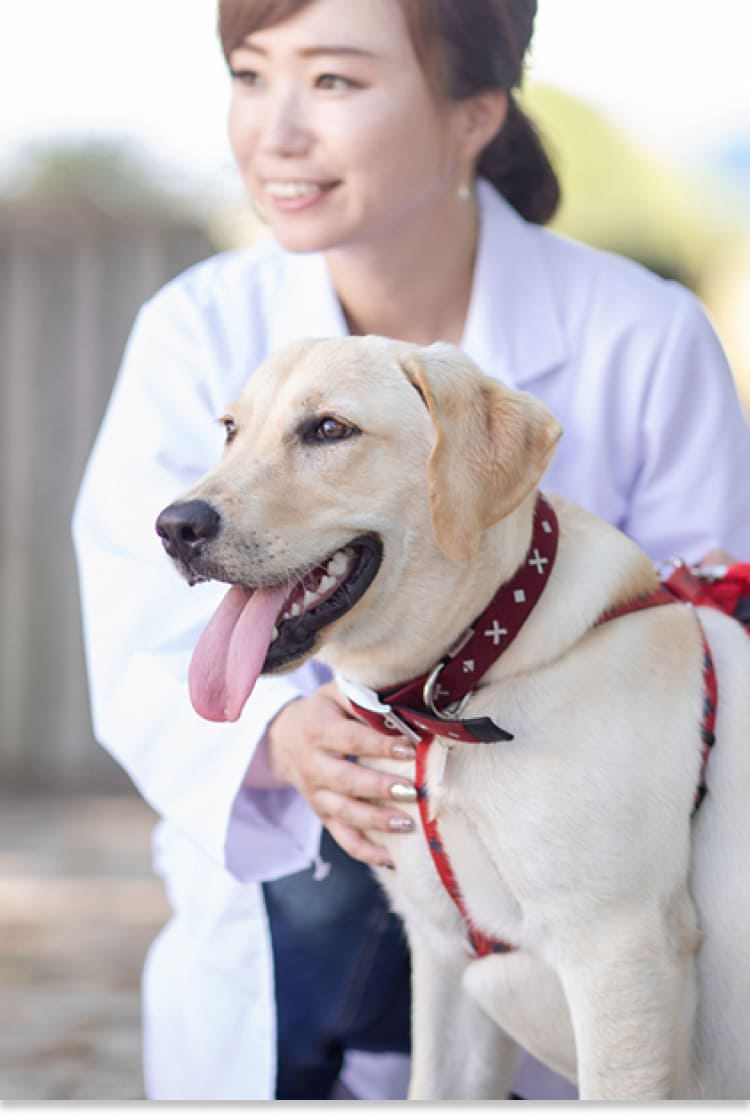
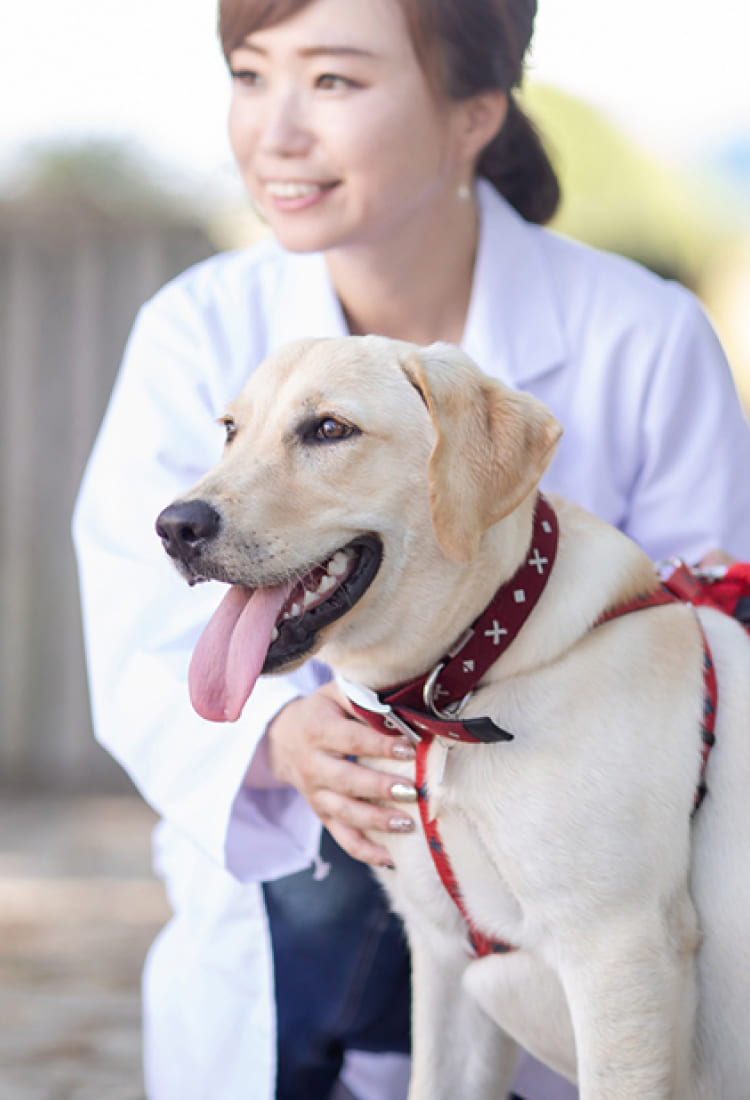
デザイン修正

diff --git a/css/style.css b/css/style.css
@@ -320,7 +320,7 @@ img {
 
 @media (max-width: 767px) {
     .mv-catch h2 {
-        font-size:3rem;
+        font-size: calc(30 / 375 * 100vw);
         line-height: calc(40 / 30);
         font-weight: bold;
         transform: translateY(-0.5rem);
@@ -449,7 +449,7 @@ img {
     margin-inline: auto;
 }
 .features__title h2 {
-    margin-top: -0.2rem;
+    margin-top: -0.8rem;
     display: flex;
     align-items: center;
     justify-content: center;
@@ -462,14 +462,14 @@ img {
     display: flex;
     flex-direction: column;
     row-gap: 5rem;
-    margin-top: 3.8rem;
+    margin-top: 4.4rem;
     
 }
 
 @media (max-width:767px) {
     .features__contents {
-        row-gap: 4.5rem;
-        margin-top: 3.3rem;
+        row-gap: 4.4rem;
+        margin-top: 4rem;
     }
     }
 
@@ -831,7 +831,7 @@ img {
 /* access*/
 .access {
     width: 100%;
-    padding: 6rem 3rem 6rem;
+    padding: 6rem 3rem 7rem;
 }
 
 @media (max-width:767px) {
@@ -1033,40 +1033,33 @@ img {
 }
 
 .access__map {
-    width: 50%;
+    width:50%;
     aspect-ratio: 440 / 300;
-    
+    position: relative;
+    overflow: hidden;
     
 }
 
 @media (max-width: 767px) {
     .access__map {
         width: 100%;
-        height: 100%;
         aspect-ratio: 335 / 222;
-        display: block;
         margin-top: 1rem;
     }
 }
 
 .access__map iframe {
     width: 100%;
-    height: 100%;
-    
-}
-@media (max-width: 767px) {
-    .access__map iframe {
-        /* height: auto; */
-        
-    }
+    position: absolute;
+    inset: 0;
+    border: 0;
+    display: block;
 }
 
-.access__image img {}
 
 @media (max-width: 767px) {
     .access__image img {
         width: 100%;
-        /* ↑使ったら必ずobject fit:coverを入れる */
         
     }
 }
@@ -1165,8 +1158,6 @@ img {
 }
 
 .contact__row textarea {
-    /* min-height: 240px; */
-    height: 29rem;
     resize: vertical;
     word-break: break-word;
     resize: none;
@@ -1388,7 +1379,6 @@ textarea {
     justify-content: center;
     align-items: center;
     gap: 1.2rem;
-    transition: opacity 0.4s;
 }
 .sns-list a {
     transition: opacity 0.4s;

diff --git a/index.html b/index.html
@@ -30,8 +30,6 @@
 </head>
 
 <body>
-
-    <section>
         <div id="container">
             <!-- header -->
             <header class="header">
@@ -353,7 +351,6 @@
 
             </main>
         </div>
-    </section>
     <footer class="footer">
         <div class="inner">
             <nav class="footer__nav">